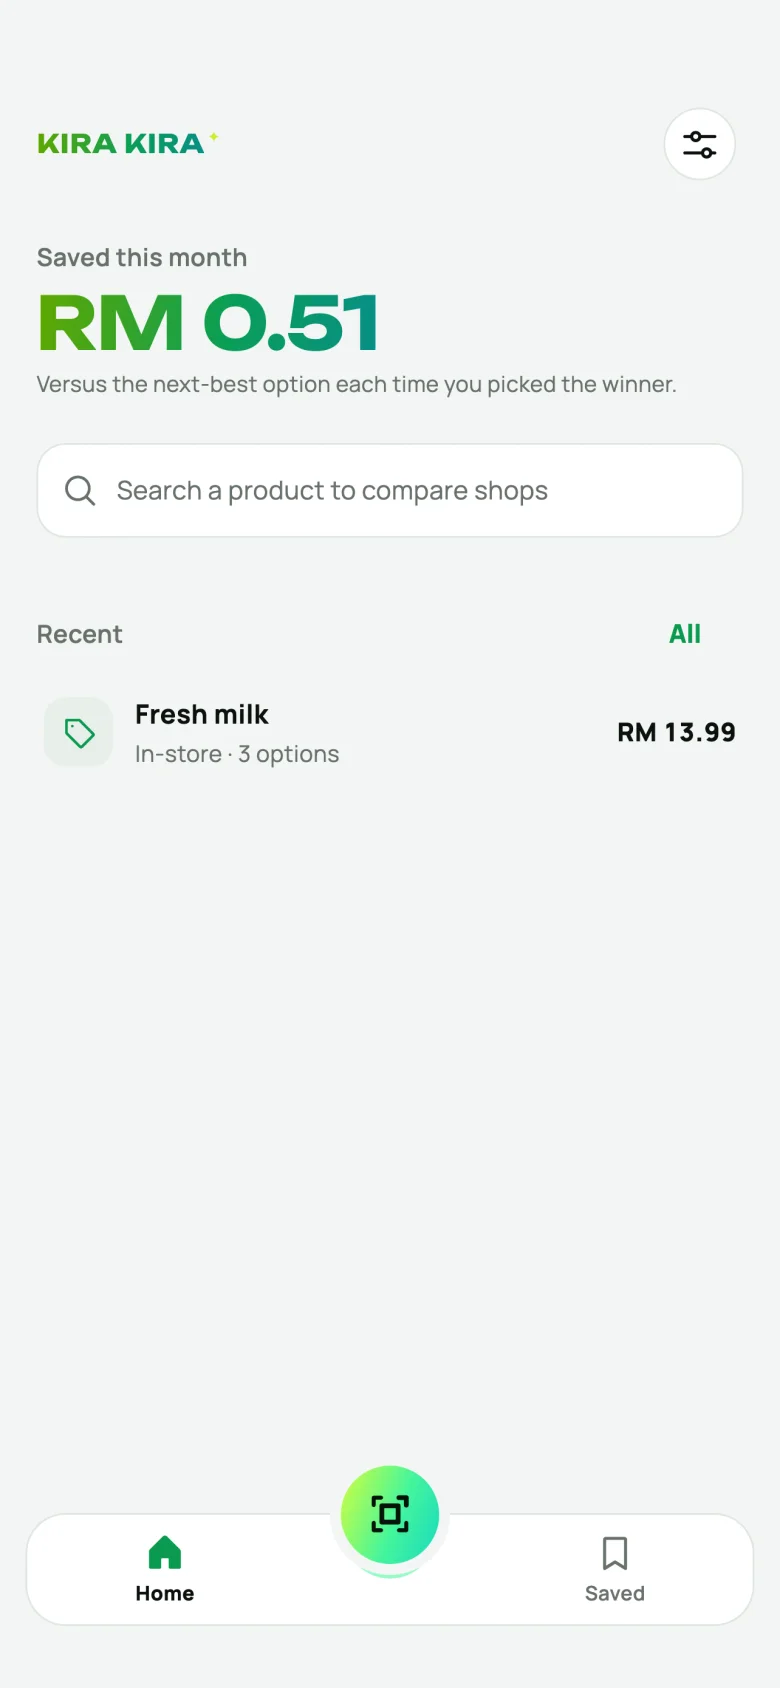
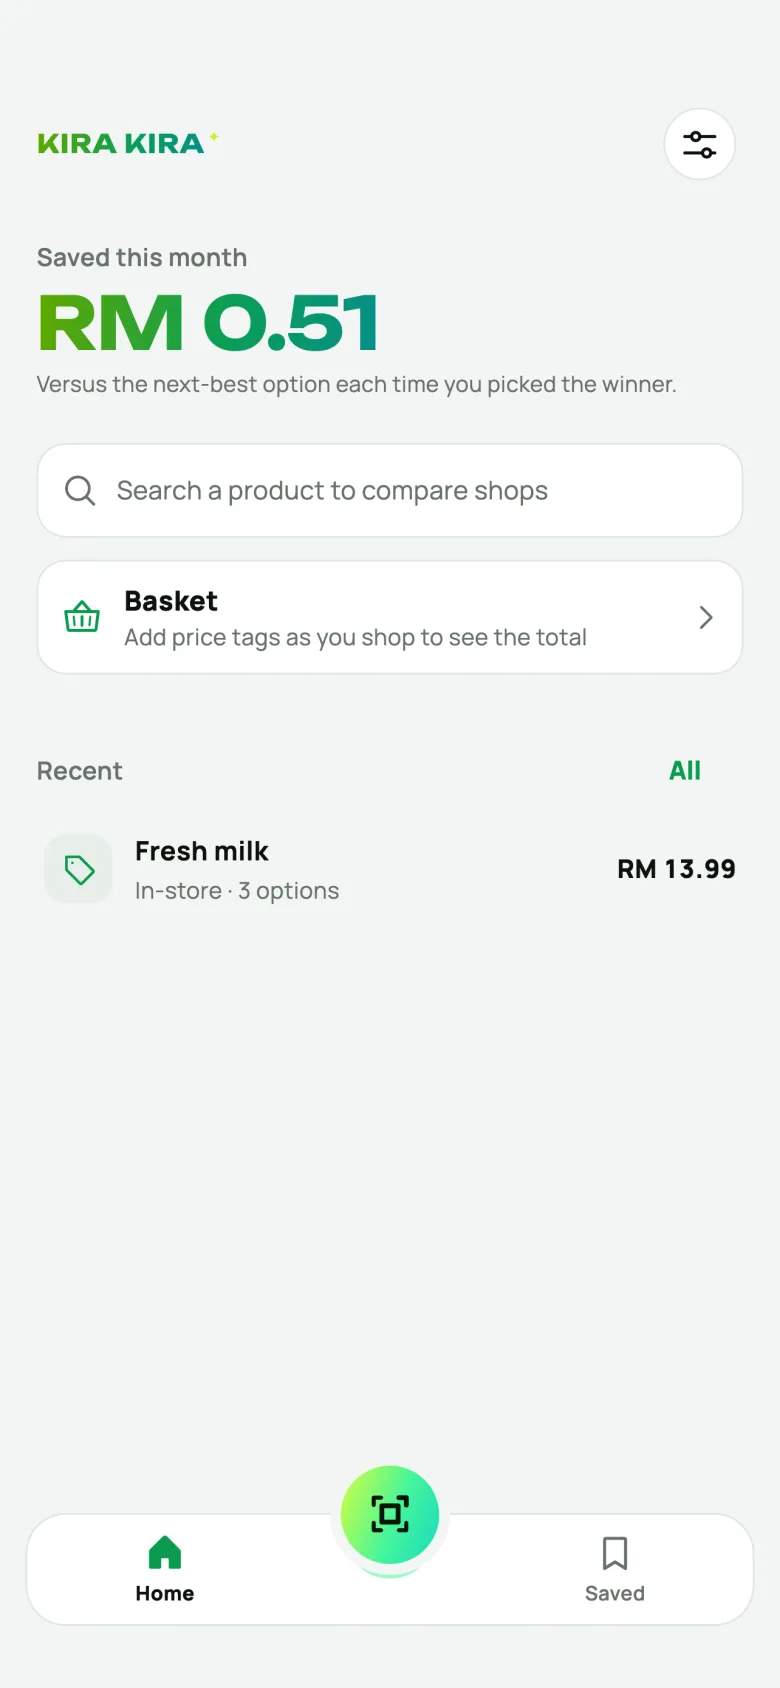
The app compares shops near you, not online prices
Online comparison is out of the app (no API gives an individual
affiliate searchable prices), so the site stops promising it:
- The hero, the "Online, too" tile, step 3 and the FAQ now show shops
  near you (KPDN's prices) instead; the fact about commission and order
  becomes one about KPDN's open data.
- Screens redrawn from the current app (the basket on Home, "Add to
  basket" on the result, shops near Petaling for step 3).
- Privacy (effective 30 September 2026): the basket stays on the phone;
  no more online prices; tapping Lazada under a search sends the words
  to Kira Kira's server, which asks Lazada for an affiliate link to that
  search.

diff --git a/index.html b/index.html
@@ -4,7 +4,7 @@
 <meta charset="utf-8">
 <meta name="viewport" content="width=device-width, initial-scale=1, viewport-fit=cover">
 <title>Kira Kira — which one's the better deal?</title>
-<meta name="description" content="Kira Kira is a free price-comparison app for shoppers in Malaysia: snap the shelf tags to see the better deal per litre, per kg or per piece, and compare phones across Shopee, Lazada and brand stores.">
+<meta name="description" content="Kira Kira is a free price-comparison app for shoppers in Malaysia: snap the shelf tags to see the better deal per litre, per kg or per piece, and what shops near you charge.">
 <link rel="canonical" href="https://xuaan33.github.io/kirakira-site/">
 <meta property="og:type" content="website">
 <meta property="og:url" content="https://xuaan33.github.io/kirakira-site/">
@@ -37,7 +37,7 @@
       <div>
         <p class="eyebrow">( For shoppers in Malaysia )</p>
         <h1>Which one's the better deal?</h1>
-        <p class="lead">Snap the price tags. Kira Kira works out the price <strong>per litre, per kg or per piece</strong>, sees through deals that aren't, and tells you which to buy. Shopping for a phone? It lines up <strong>Shopee, Lazada</strong> and the brand's own store.</p>
+        <p class="lead">Snap the price tags. Kira Kira works out the price <strong>per litre, per kg or per piece</strong>, sees through deals that aren't, and tells you which to buy. Then see what <strong>shops near you</strong> charge for it.</p>
         <div class="actions">
           <span class="pill">Coming soon to Google Play</span>
           <span class="pill">Coming soon to the App Store</span>
@@ -107,28 +107,20 @@
           </div>
         </article>
 
-        <article class="tile t-online">
+        <article class="tile t-shops">
           <div>
-            <h3>Online, too</h3>
-            <p>Search a phone or gadget and see each platform's three cheapest official sellers, by name. Tap one to open it in the Shopee or Lazada app.</p>
+            <h3>Shops near you</h3>
+            <p>Search Milo, rice or eggs and see what each chain near you charges, cheapest marked, from the prices KPDN records in shops across Malaysia.</p>
           </div>
-          <div class="mini-offers demo-ui" aria-label="Example: iPhone 17 Pro Max, 256GB">
+          <div class="mini-offers demo-ui" aria-label="Example: Milo (Paket) 900 g near Petaling">
             <div class="mini-platform">
-              <span class="letter">S</span>
+              <span class="letter">M</span>
               <div>
-                <p class="platform">Shopee</p>
+                <p class="platform">Milo (Paket) 900 g · Petaling</p>
                 <ul>
-                  <li>Nova Gadgets <span class="chip best">RM 5,024</span><small>Mall · cheapest</small></li>
-                  <li>Orbit Mobile <span class="chip">RM 5,174</span><small>Mall</small></li>
-                </ul>
-              </div>
-            </div>
-            <div class="mini-platform">
-              <span class="letter">L</span>
-              <div>
-                <p class="platform">Lazada</p>
-                <ul>
-                  <li>Mega Mobile <span class="chip">RM 5,249</span><small>LazMall</small></li>
+                  <li>99 Speedmart <span class="chip best">RM 17.89</span><small>4 shops · cheapest</small></li>
+                  <li>AEON BiG <span class="chip">RM 18.99</span><small>1 shop</small></li>
+                  <li>Mydin <span class="chip">RM 18.99</span><small>2 shops</small></li>
                 </ul>
               </div>
             </div>
@@ -152,7 +144,7 @@
         <div class="fact"><b>Read on your phone</b><span>Photos never leave it.</span></div>
         <div class="fact"><b>No account</b><span>Open it and scan.</span></div>
         <div class="fact"><b>No ads</b><span>Nothing to buy in the app.</span></div>
-        <div class="fact"><b>Your prices, unbent</b><span>Commission never changes the order.</span></div>
+        <div class="fact"><b>Shop prices from KPDN</b><span>Open government data, daily.</span></div>
       </div>
     </section>
 
@@ -182,15 +174,15 @@
         </div>
         <div class="step">
           <div class="phone"><div class="screen">
-            <img class="shot-dark" src="shots/dark/online.webp" alt="An iPhone's prices on Shopee and Lazada, three sellers each" loading="lazy">
-            <img class="shot-light" src="shots/light/online.webp" alt="" loading="lazy">
+            <img class="shot-dark" src="shots/dark/shops.webp" alt="Milo's price at each chain's shops near Petaling, 99 Speedmart cheapest" loading="lazy">
+            <img class="shot-light" src="shots/light/shops.webp" alt="" loading="lazy">
             <div class="island"></div><div class="status"><span>9:41</span><svg viewBox="0 0 42 12" aria-hidden="true"><rect x="0" y="7" width="3" height="5" rx="1"/><rect x="5" y="5" width="3" height="7" rx="1"/><rect x="10" y="2.5" width="3" height="9.5" rx="1"/><rect x="15" y="0" width="3" height="12" rx="1"/><rect x="24" y="1" width="16" height="10" rx="3" fill="none" stroke="currentColor" stroke-width="1.4"/><rect x="26" y="3" width="11" height="6" rx="1.5"/></svg></div>
           </div></div>
           <span class="num">3</span>
-          <div><h3>Check online</h3><p>For phones and gadgets: each platform's cheapest official sellers.</p></div>
+          <div><h3>Check shops near you</h3><p>What each chain near you charges, from KPDN's records.</p></div>
         </div>
       </div>
-      <p class="note">Screens from the app. Online prices and sellers are examples.</p>
+      <p class="note">Screens from the app. Shop prices are examples from KPDN's records.</p>
     </section>
 
     <section id="score">
@@ -229,7 +221,7 @@
         </details>
         <details>
           <summary>So how does it make money?</summary>
-          <p>When you buy through a link in Kira Kira, the platform, such as Shopee or Lazada, may pay us a commission. It never changes your price, or the order the prices are shown in.</p>
+          <p>When you search an online store from Kira Kira, such as Lazada, and buy there, the store may pay us a commission. It never changes your price.</p>
         </details>
         <details>
           <summary>Does it upload my photos?</summary>
@@ -240,8 +232,8 @@
           <p>Printed shelf tags in Malaysian shops, including deals like “2 untuk” and “Beli 2 Percuma 1”, member prices (Harga Ahli), savings (Jimat) and prices per kg. If a tag won't read, type it in.</p>
         </details>
         <details>
-          <summary>Which online shops does it check?</summary>
-          <p>Shopee and Lazada, plus brands' own stores, starting with phones and gadgets.</p>
+          <summary>Where do the shop prices come from?</summary>
+          <p>From PriceCatcher, KPDN's daily record of everyday goods' prices at shops across Malaysia, published as open data on data.gov.my.</p>
         </details>
         <details>
           <summary>Do I need an account?</summary>

diff --git a/privacy.html b/privacy.html
@@ -16,19 +16,19 @@
   <div class="doc">
     <a class="brand" href="./"><img src="icon.png" alt=""><span class="wordmark neon-text">Kira Kira</span></a>
     <h1>Privacy policy</h1>
-    <p class="date">Effective 25 September 2026</p>
+    <p class="date">Effective 30 September 2026</p>
     <p>Kira Kira is a free price-comparison app for shoppers in Malaysia, made by an independent developer. This page explains what the app does with information. In short: there's no account, no ads and no tracking, and your photos never leave your phone.</p>
     <h2>What stays on your phone</h2>
     <ul>
       <li><strong>Price tags you scan.</strong> The camera picture is read on your phone by Google's ML Kit text recognition. It isn't saved or uploaded.</li>
       <li><strong>Your location</strong>, if you allow it. The app uses your phone's approximate location, on the phone, to find your district for shop prices. The location itself is never sent anywhere or stored; the app only keeps the district it found.</li>
-      <li><strong>Your comparisons and settings</strong>, such as saved comparisons, language, theme and your district for shop prices, are stored on your phone. Deleting the app deletes them.</li>
+      <li><strong>Your comparisons, basket and settings</strong>, such as saved comparisons, your shopping basket and budget, language, theme and your district for shop prices, are stored on your phone. Deleting the app deletes them.</li>
     </ul>
     <h2>What leaves your phone</h2>
     <ul>
-      <li><strong>Searches.</strong> When you search for a product, the words you type go to Kira Kira's price server. For prices in shops, your state and district go with them (found from your location, or picked by you), so that shops in your district come first. For online prices, the server asks shopping platforms such as Shopee and Lazada. The app sends nothing that identifies you: no name, account or device ID, and never your phone's location. The server is hosted by Supabase and may run outside Malaysia. Like any web service, it keeps short-lived technical logs, which can include your internet (IP) address, to keep the service running and secure.</li>
+      <li><strong>Searches.</strong> When you search for a product, the words you type go to Kira Kira's price server. For prices in shops, your state and district go with them (found from your location, or picked by you), so that shops in your district come first. The app sends nothing that identifies you: no name, account or device ID, and never your phone's location. The server is hosted by Supabase and may run outside Malaysia. Like any web service, it keeps short-lived technical logs, which can include your internet (IP) address, to keep the service running and secure.</li>
       <li><strong>Text recognition.</strong> ML Kit sends Google measurements of how it performs and is used, never the picture, and may download updates to its models.</li>
-      <li><strong>Opening a seller.</strong> When you tap a seller, their page opens in the platform's app or your browser through an affiliate link, which tells the platform the visit came from Kira Kira. From there, that platform's own privacy policy applies.</li>
+      <li><strong>Searching an online store.</strong> When you tap Shopee or Lazada under a search, that store's own search opens with your words, in its app or your browser. For Lazada, the words first go to Kira Kira's server, which asks Lazada for an affiliate link to that search; the link tells Lazada the visit came from Kira Kira. From there, the store's own privacy policy applies.</li>
       <li><strong>Finding a shop.</strong> When you tap a shop, Google Maps opens with its name and address, and Google's privacy policy applies there.</li>
     </ul>
     <h2>What we don't do</h2>
@@ -37,7 +37,7 @@
     <ul>
       <li><strong>Camera</strong>, to read price tags. You can type a price in instead.</li>
       <li><strong>Location</strong> (approximate), to find your district for shop prices. You can pick your area instead.</li>
-      <li><strong>Internet</strong>, for shop and online prices, and for the text recognition described above.</li>
+      <li><strong>Internet</strong>, for shop prices, the online stores' search, and the text recognition described above.</li>
     </ul>
     <h2>Children</h2>
     <p>Kira Kira isn't directed at children under 13, and we don't knowingly collect their information.</p>

diff --git a/style.css b/style.css
@@ -479,7 +479,7 @@ footer .wordmark { font-size: 15px; }
   .bento { grid-template-columns: repeat(6, 1fr); }
   .t-scan { grid-column: span 3; grid-row: span 2; }
   .t-bars, .t-deal { grid-column: span 3; }
-  .t-online { grid-column: span 4; }
+  .t-shops { grid-column: span 4; }
   .t-langs { grid-column: span 2; }
   .facts { grid-template-columns: repeat(4, 1fr); }
   .steps { grid-template-columns: repeat(3, 1fr); gap: 32px; }
